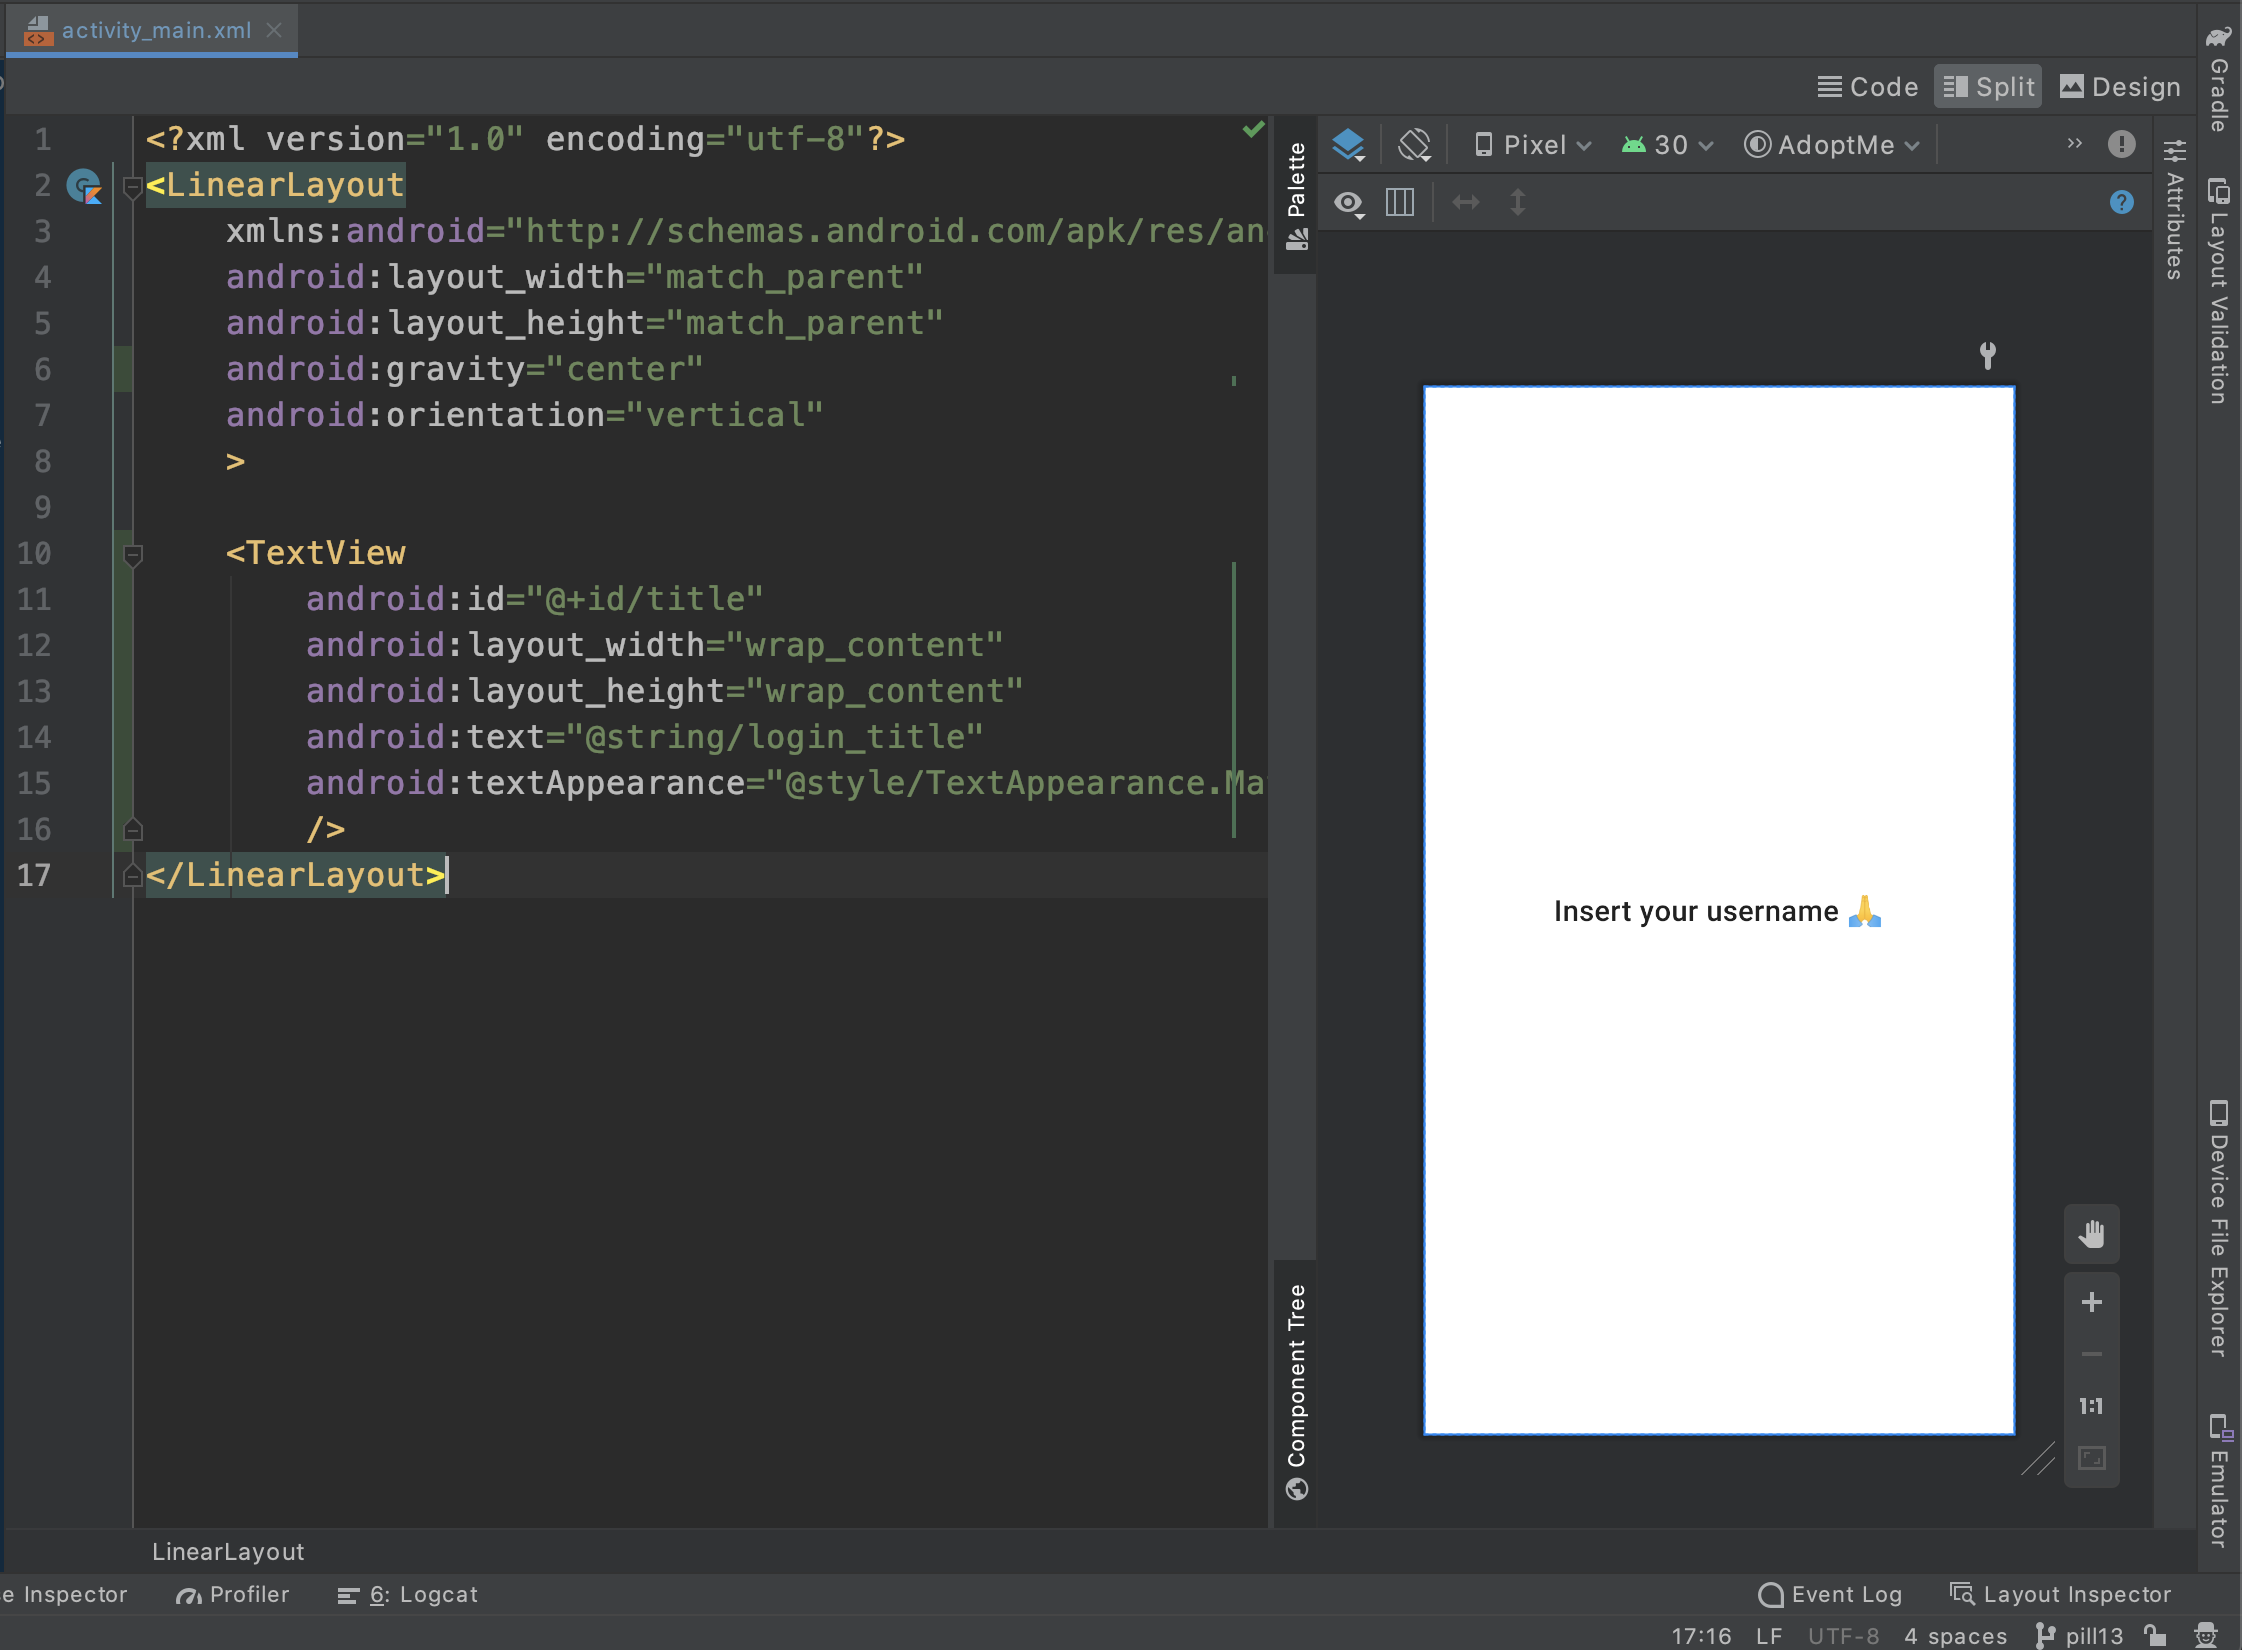
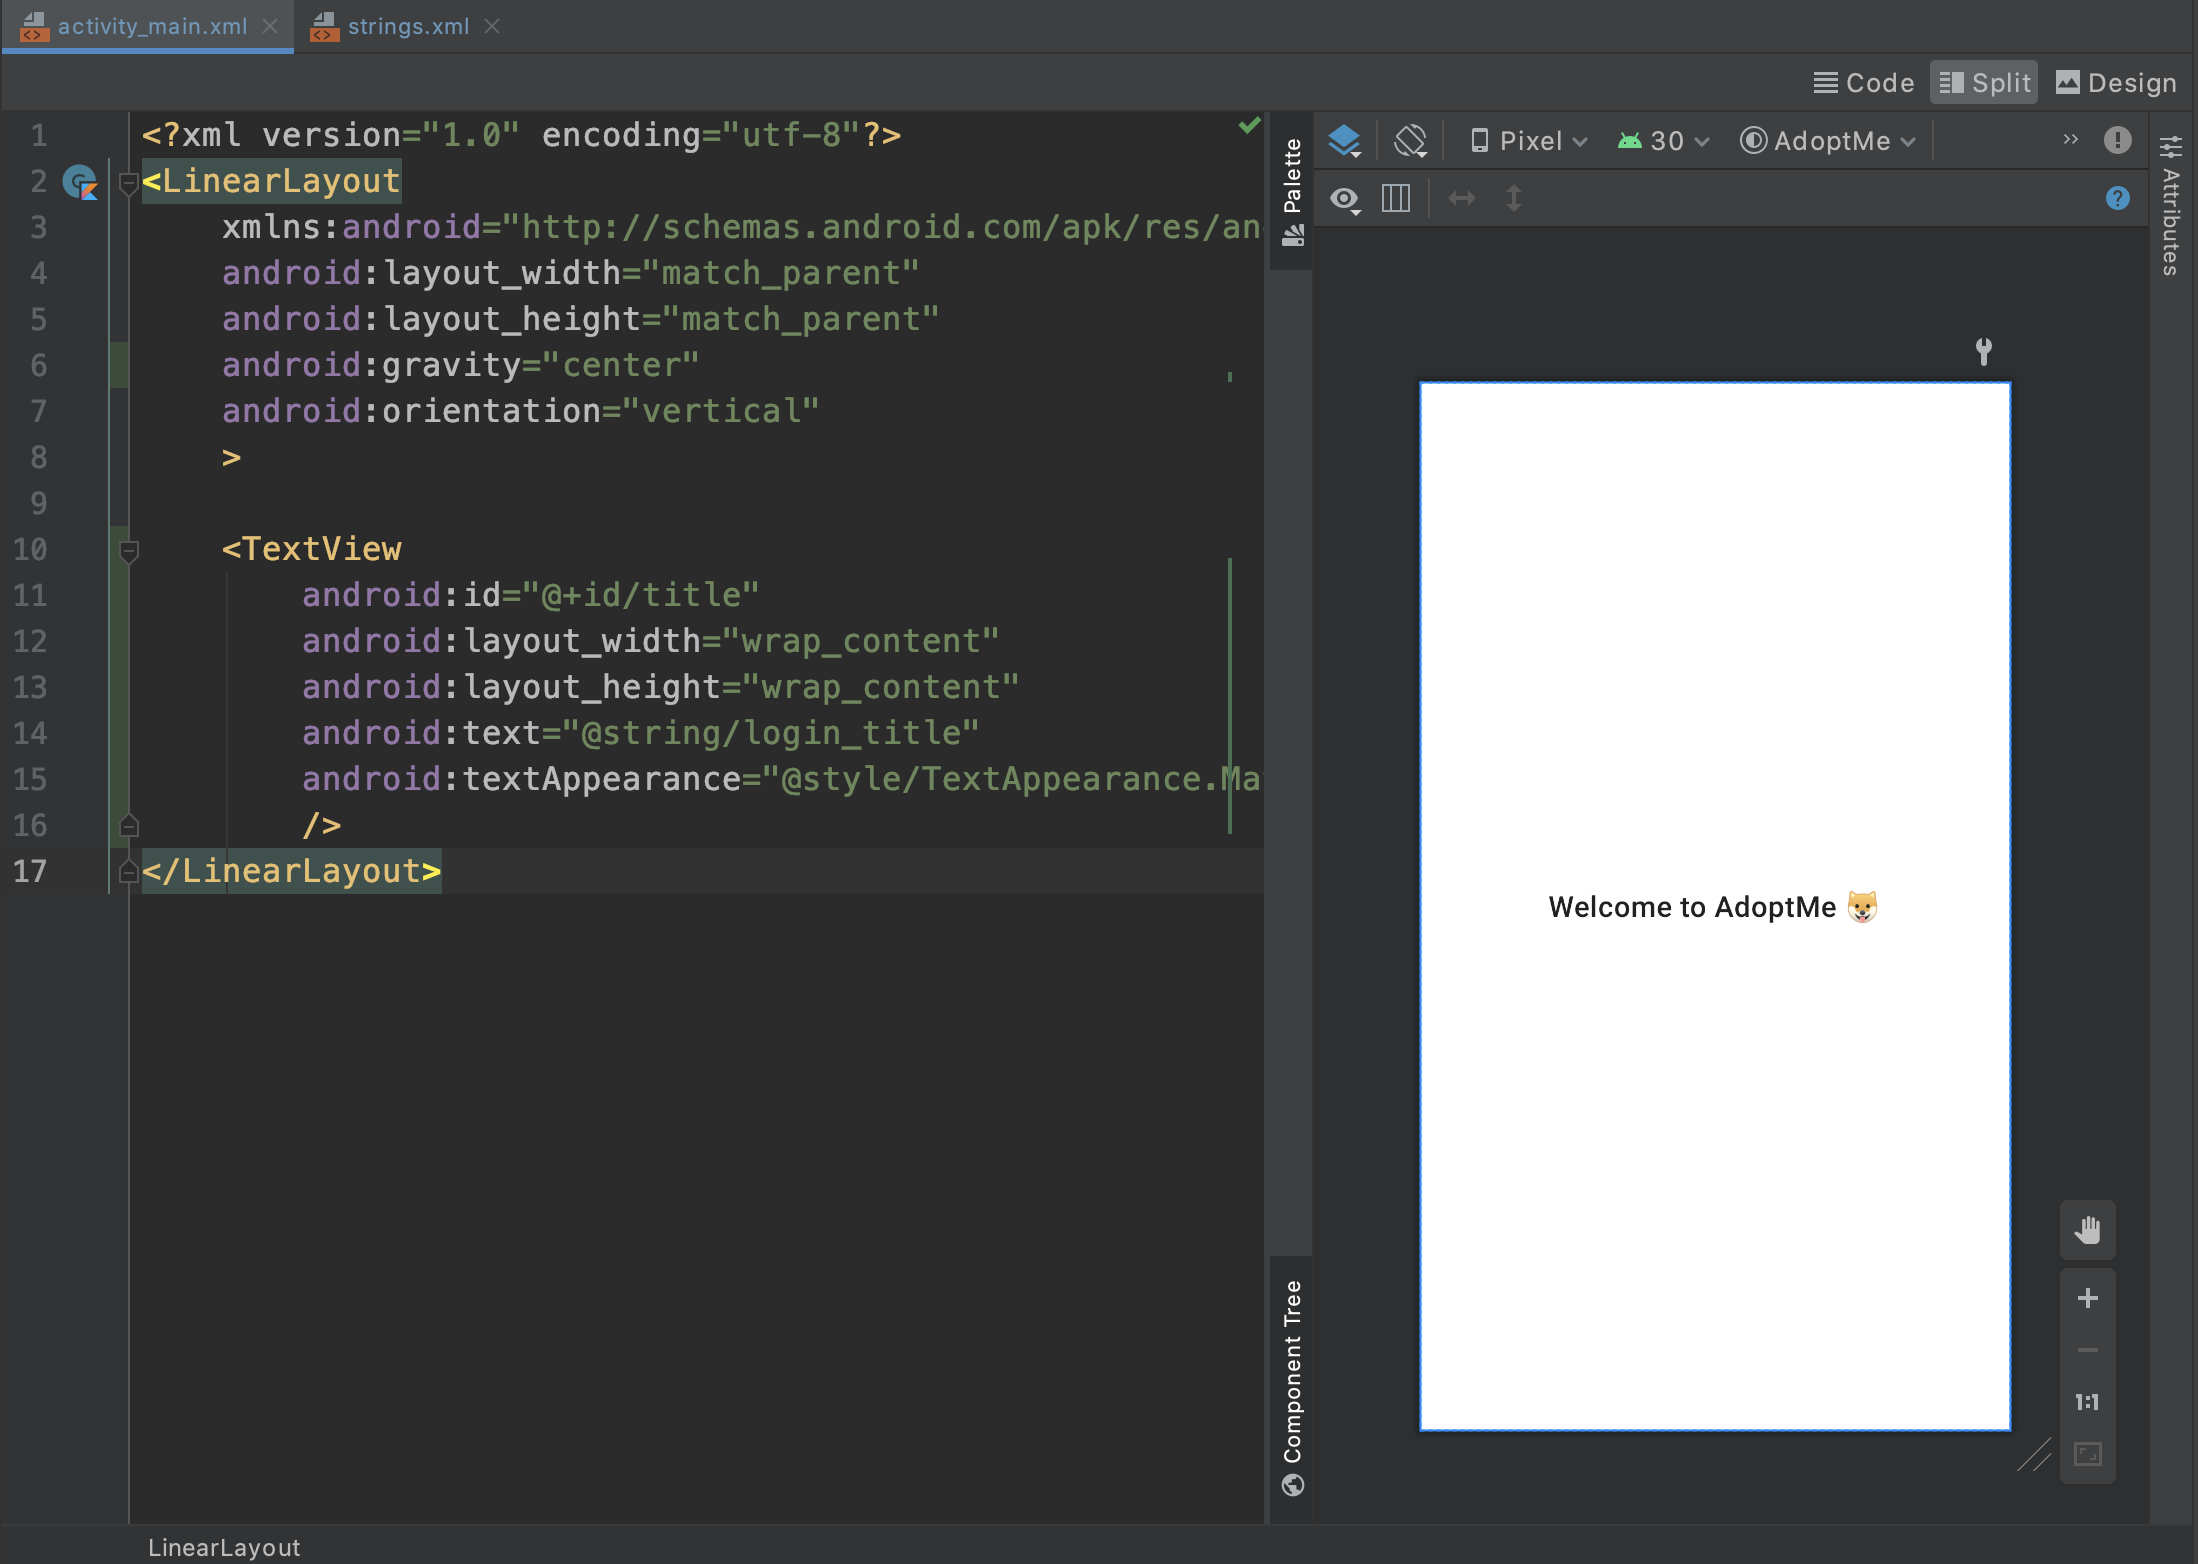
Completes pill 14.

diff --git a/androidcourse/pill14/index.md b/androidcourse/pill14/index.md
@@ -38,15 +38,17 @@ Let's go back to `activity_main.xml` under the `res/layout` folder to add the ti
 
 We are going to add a few children to the parent `LinearLayout` so they will be aligned vertically given the `android:orientation` attribute.
 
-Since we want all the children to be centered on screen we are adding `android:gravity="center"`. This will make the children center within the parent and at the same time keep their vertical alignment.
+We are adding `android:gravity="center"` to get all children centered within the parent and at the same time keep their vertical alignment.
 
-Finally, we are adding the `TextView`, which is the Android `View` used to display a text.
+Finally, we add the `TextView`, which is the Android `View` used to display a text.
 
-> Note that any UI components in Android extend from the View class, hence they're often called "Views". In this example, all components including the parent `LinearLayout` are views.
+> All UI components in Android extend from the [View](https://developer.android.com/reference/android/view/View) class, hence they're often called "Views". In this example, all components including the parent layout are views.
 
-We have added an `android:id` to the text so we can reference it easily later on. We are also telling to wrap its height and width to the content (actual text) so the view bounds match the text size for both dimensions.
+We have added an `android:id` to the text so we can reference it easily later on. That will make it accessible from code so we could for example change the text at runtime, or after a user interaction.
 
-We are also setting the `android:textAppearance` with one of the [Material Design text styles](https://material.io/design/typography/the-type-system.html) to follow the guidelines. We will dig more on those, just note we are picking the "h6" appearance for this one, since it's a header for our login box.
+We are also telling to wrap its height and width to the content (actual text) so **the view bounds match the inner text size** for both dimensions.
+
+We are also setting the `android:textAppearance` with one of the [Material Design text styles](https://material.io/design/typography/the-type-system.html) to follow the guidelines. We will dig more on those, just note we are picking the **"h6"** appearance for this one, since it's a header for our login box.
 
 Finally, we are assigning the text via the `android:text` attribute. The text is stored as a string on the `res/values/strings.xml` file:
 
@@ -54,7 +56,7 @@ Finally, we are assigning the text via the `android:text` attribute. The text is
 <!-- res/values/strings.xml -->
 <resources>
     <string name="app_name">AdoptMe</string>
-    <string name="login_title">Insert your username 🙏</string>
+    <string name="login_title">Welcome to AdoptMe 🐶</string>
 </resources>
 ```
 
@@ -68,7 +70,7 @@ We should be able to see the result in real time on the layout preview (right pa
 
 The final version of the code so far can be found [on this branch in GitHub](https://github.com/JorgeCastilloPrz/ultimateandroidcourse/tree/pill13).
 
-[Next: Asd >]({{ baseurl }}/androidcourse/pill14/)
+[Next: Adding a text field >]({{ baseurl }}/androidcourse/pill14/)
 
 ### Contact me for doubts!
 
